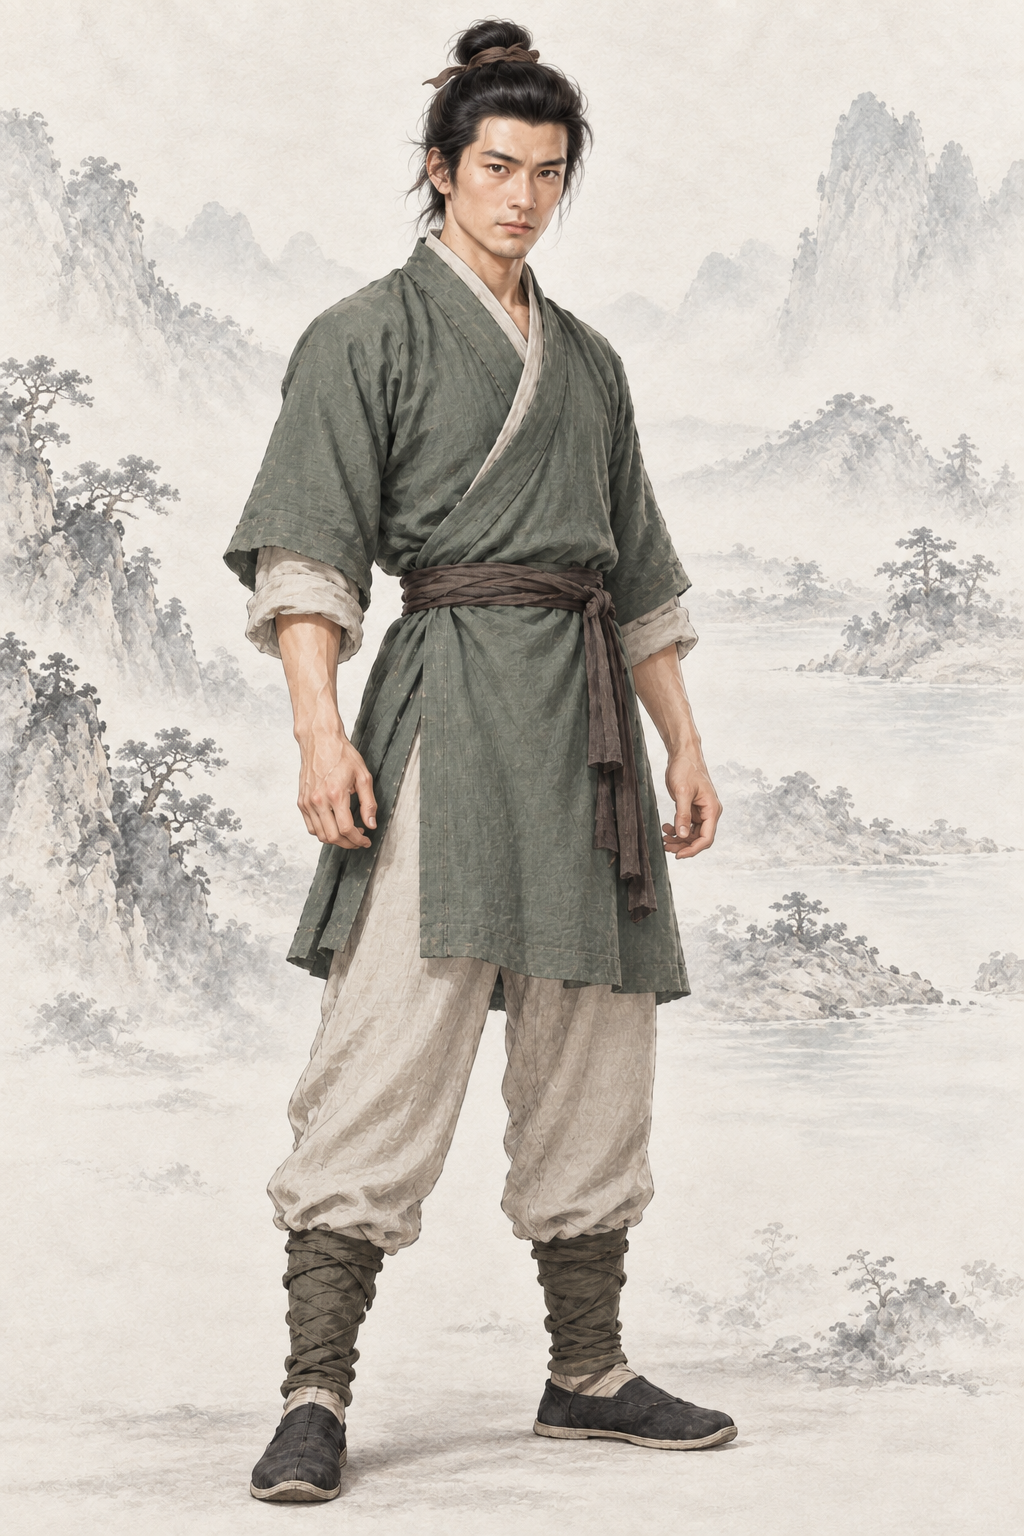
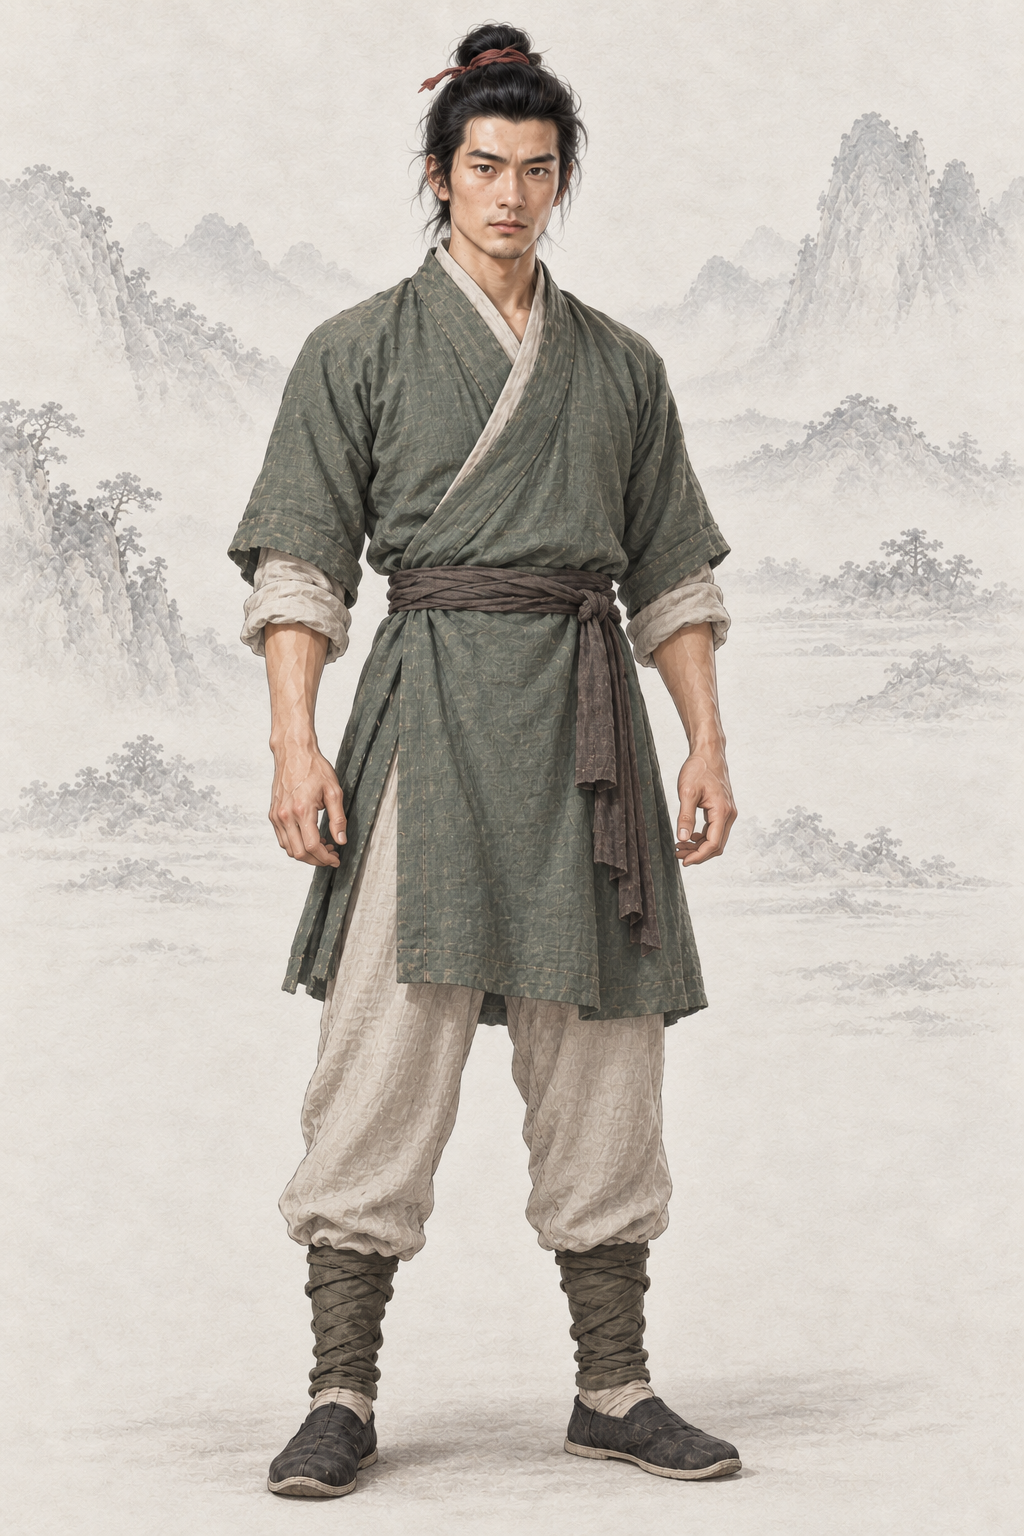
assets(character): por_npc_zhujue__ch00_m_base 主角（男）· 春秋末·越国（codex）
男主 ch00 锚点：取第 2 张；左眉断疤三次都没画出来（立绘尺度太小），待作者定是否后期补

diff --git a/assets/default/prompts/characters/protagonist/npc_zhujue__m_ch00.md b/assets/default/prompts/characters/protagonist/npc_zhujue__m_ch00.md
@@ -23,11 +23,31 @@ redo_reason: "男主跨书锚点：保留现有原创脸型与体格，加左眉
 reference_upload:
 - assets/default/character/male/ch00/por_npc_zhujue__ch00_m_base.png
 - assets/default/baseline/character/male/ref_npc_linghuchong__ch05_base01.png
+codex_prompt_rev: 2026-10-02
 ---
 
 # 主角（男）· 春秋末·越国 · 人物写实修正
 
 ## Gemini 提示词
+
+> 2026-10-02 AR-31 改写（1 号出图员，codex exec · image_gen 出图）：重要人物借鉴经典影视造型，只写成文字——不写演员名、不上传剧照、原创面孔；主角和美人画得好看，去 AI 味，禁止幼态。出图时上传两张同性别基线立绘作画风参考（放在最后）；第 1 张为身份参考（por_npc_zhujue__ch00_m_base.png）。审核组原稿保留在下一节作历史。
+
+```text
+生成一张 2:3 竖幅全身人物立绘：单人、单一视角、完整全身——头顶、双手、双脚和手中器物的两端都在画面内，四周留出自然空白；人物站姿自然，身体基本朝向正面，头部端正（不歪头、不仰不俯），镜头平视。
+【画风】写实手绘古风人物插画，与本项目写实武侠角色立绘同一画风：人物是完整、坚实、比例真实的写实绘画；皮肤有真实质感——细小毛孔、细纹、晒痕、轻微色斑和自然的左右不对称，不磨皮、不油亮；头发有一根根的发丝和自然碎发；布料看得出经纬纹理、厚薄和自然垂坠的褶皱，带穿用过的轻微旧化，但完整不破烂；整体设色低饱和、沉稳；柔和的自然光从左上方照来，明暗过渡自然，不打舞台光、轮廓光或美颜柔光。这是手绘写实绘画，不是照片，不是三维渲染，也不是动漫或游戏 CG。
+【背景】不透明的暖浅灰色纸底，只在远处有极淡的水墨远山和薄雾，大面积留白；人物与背景明暗分明、轮廓边缘干净完整（后续要自动抠图），水墨和纸纹只在背景里，不侵入人物和衣服；脚下只有很淡的一点接触阴影。
+【人物】主角（男）：本作原创的穿越者——一个落入《越女剑》春秋末越国（约公元前 482 年）的现代人。此刻刚入书，是在越地山野间观察陌生环境的普通行旅者。
+【身份参考】随提示词上传的第 1 张图是主角的上一版立绘：沿用他的脸型、五官比例、发型和体格作为本人基础，但按下文修正——加上左眉断疤和朱红发绳，皮肤、神情更真实，去掉模特感和精修感。
+【本人面容（十五个时代统一，不能变）】约二十八岁的现代中国男青年，原创面孔，不像任何演员或书中其他人物。偏长的方圆脸，颧骨适中，下颌转折清楚但不宽；平直的浓眉，左眉（他自己的左边，即画面右侧那条眉毛）的眉峰处有一道斜向的浅白色旧疤：疤痕处没有眉毛，把这条眉毛清楚地截成两段，头像放大时一眼可见（全书标志；参考图里没有这道疤，本张必须加上）；左眉尾下方一颗浅褐色小痣；深棕色中等大小的杏眼、内双，眼神专注、带一点好奇；鼻梁直、鼻头圆钝；上唇薄、下唇略厚，嘴角平和；暖中性略带日晒的肤色，唇上与下巴有极淡的胡茬，眼角有一两道细纹。中等偏高的个子，肩背匀称，四肢结实而不魁梧（约 7.5 头身）；乌黑的头发直而略硬。整体是踏实可靠、警觉而不凶的普通青年，不是偶像或模特。整体要好看、有魅力：五官端正耐看、气质干净可靠（但不是偶像或模特脸）。
+【主角标志】发髻根部（清代则是辫梢）系一根褪色的朱红细绳，露出短短的绳头——每个时代都保留这根红绳。
+【服饰】深浅竹青相间的简朴右衽短褐上衣（长及大腿中部，缝边完整），浅麻色长裤、裤脚收束，窄布带束腰，素面布履；黑发梳成简约椎髻，深褐布条束紧，髻根系朱红细绳；不戴后世冠帽。
+【道具】空手，不带青铜剑、竹棒或任何兵器。
+【姿态与神情】身体基本正面，双手空着自然垂在身侧，双脚稳稳站立；神情放松、专注而好奇，眉头舒展（不要皱眉、不要凶），像刚抬头打量这片陌生山野。
+【不要】画面里不要任何文字、题款、印章、签名、水印、边框、分格或多视图；不要第二个人；不要幼态（童颜、娃娃脸、婴儿肥、儿童或少年身材、大头小身）；不要塑料感皮肤、磨皮美颜、网红脸（尖下巴大眼高鼻的模板脸）、过度对称、浓妆、偶像式打光、蜡像感；不要照片质感、三维渲染或动漫大眼；不要歪头、斜镜头；不要多指、缺指（设定的伤残除外）、手与器物粘连或悬空；汉式交领必须右衽（穿着者的左襟压在右襟上），不要左衽（设定为少数民族服制的除外），不要水平镜像；不要现代物品、发光特效、法阵或能量光。不要明星脸或模特式五官；不要与书中男女主角撞脸；不要具名神兵、门派徽记、官服；不要年龄变小或变老。不要春秋以后的冠帽、宋明服饰或清代发辫。
+【画风基线】随提示词上传的参考图里，最后两张是本项目的立绘画风基线：只参考它们的画风、用色、光线、质感和暖浅灰纸底加淡水墨的背景处理，整体画风必须与它们一致——精细写实的数字手绘插画，不是油画，不要厚涂笔触和画布纹理。参考图只取画风、光线、质感和背景处理，不取长相：不要照搬基线图里人物的长相、年龄、发型、服饰和姿势。
+```
+
+## 审核组 Gemini 提示词（2026-10-02 AR-30 重审稿；AR-31 改写前，历史，不再用于出图）
 
 > 2026-10-02 重要人物立绘重审（A 组，`tools/agents/reports/REVIEW-portraits-A-ch00-04.md`）：**微调重出**。男主跨书锚点：保留现有原创脸型与体格，加左眉断疤与朱红发绳作全书辨识标志，去模特感，作为十四个时代的同一身份参考。
 > 上传参考只按 frontmatter `reference_upload`（共 1 张，按顺序上传）；frontmatter 的 `references` 与本节以下内容是旧出图管线的历史记录，不再用于出图。
